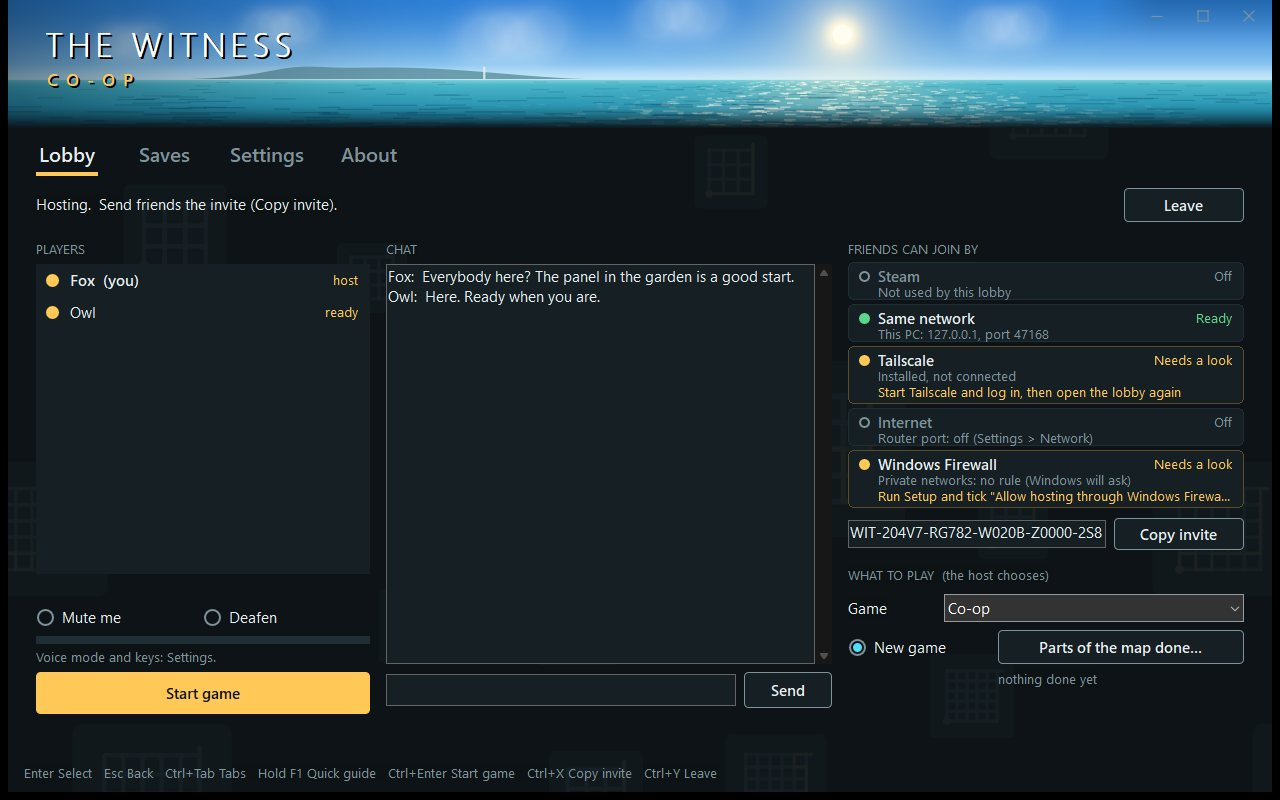
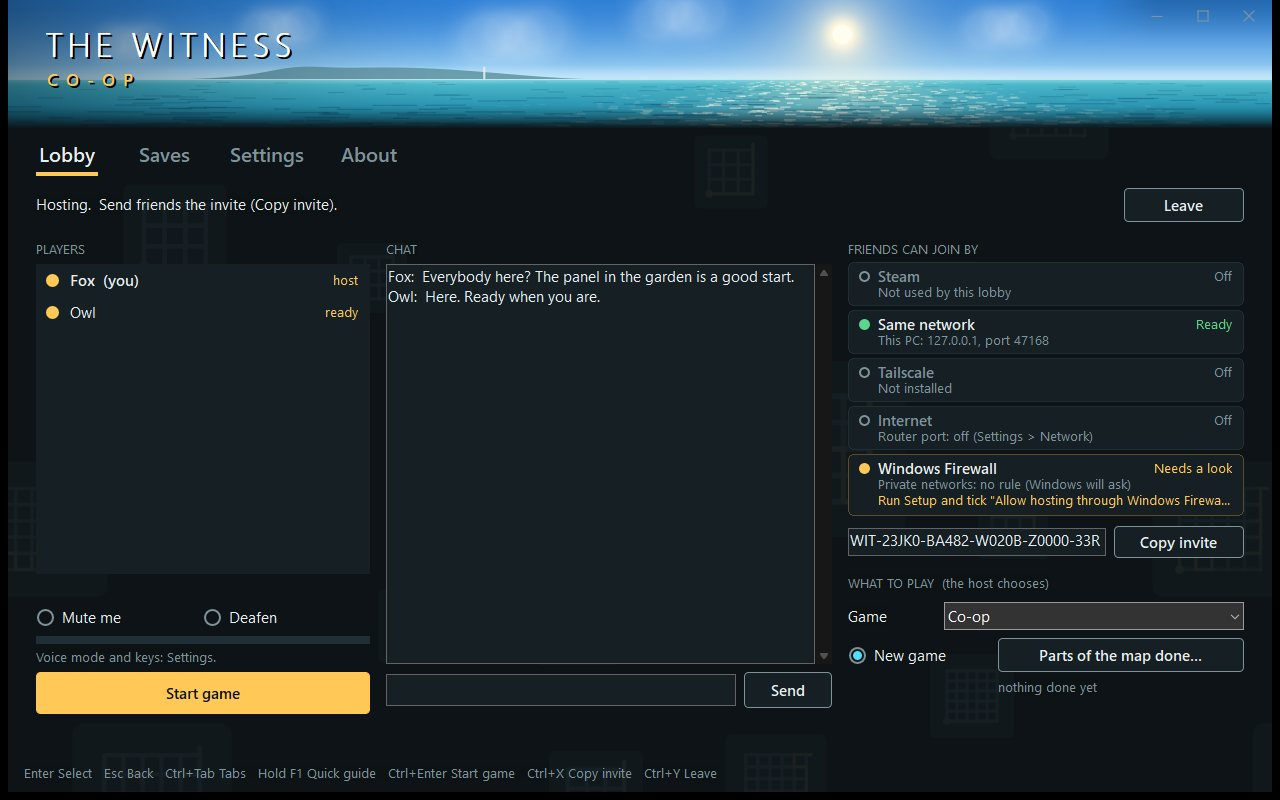
Launcher looks test sees only shown controls; a cut-off hint shortened; showcase pictures without Tailscale
wlook.py measured every child window, also the ones a page hides and never lays out
(the race goal outside a race, the Steam hint), so it reported them as covered and cut
off at their 10x10 creation size; it now looks at controls with WS_VISIBLE (a page not
selected keeps its controls' flag). That showed one real cut: the Who can see my lobby
hint needed 1006 px of 958, now shorter. qa.sh looks: clean PASS, all four mutants caught.

qa.sh join pictures drew this PC's Tailscale name once Tailscale was connected: the
launchers now start without tailscale.exe on PATH or under Program Files, and the run
checks the Tailscale row shows nothing of this PC. Pictures retaken (taller route cards).

Claude-Session: https://claude.ai/code/session_01LR8ikgw44dJVTkNefQVF8E

Changed region(s): [[0.6562, 0.375, 0.9688, 0.875], [0.9375, 0.5, 0.9688, 0.5312]]

diff --git a/tools/win/wlook.py b/tools/win/wlook.py
@@ -1,6 +1,6 @@
 # T2 check of how the launcher looks and behaves under the mouse, run with Windows Python: (1) hovering along one tab must not repaint the row of tabs again and again (flicker): 70 mouse moves along one
 # tab may repaint it at most 3 times (the paints are counted by the launcher and written to its state file); (2) on every page no dropdown box may cover another control (a dropdown and a text
-# of the same page must not overlap).     usage: wlook.py <launcher exe> <game dir> <stat file>
+# of the same page must not overlap); controls a page hides (WS_VISIBLE off) are not looked at.     usage: wlook.py <launcher exe> <game dir> <stat file>
 import ctypes, ctypes.wintypes as wt, os, re, subprocess, sys, time
 exe, gdir, statf = sys.argv[1], sys.argv[2], sys.argv[3]
 u = ctypes.WinDLL('user32', use_last_error=True); u.SendMessageW.argtypes = [wt.HWND, wt.UINT, wt.WPARAM, wt.LPARAM]; u.SendMessageW.restype = ctypes.c_ssize_t
@@ -36,6 +36,8 @@ kids = []
 def collect(h, l): kids.append(h); return True
 u.EnumChildWindows(main, collect, 0)
 tab = [h for h in kids if cls(h) == 'SysTabControl32'][0]
+u.GetWindowLongW.argtypes = [wt.HWND, ctypes.c_int]
+shown = [h for h in kids if u.GetWindowLongW(h, -16) & 0x10000000]      # WS_VISIBLE of the control itself: on every page (a page not selected keeps its controls' flag), but not a control its page hides (the race goal outside a race, the Steam hint), which is never laid out
 time.sleep(0.8); p0 = paints()
 r = wt.RECT(); u.GetWindowRect(tab, ctypes.byref(r)); oldpos = wt.POINT(); u.GetCursorPos(ctypes.byref(oldpos)); covered = False
 u.SetCursorPos(r.left + 130, r.top + 17); time.sleep(0.4); pt = wt.POINT(r.left + 160, r.top + 17); covered = u.WindowFromPoint(pt) != tab
@@ -45,7 +47,7 @@ time.sleep(0.8); p1 = paints()
 check('hovering along one tab repaints the row of tabs at most 3 times (70 mouse moves)', not covered and p0 is not None and p1 is not None and p1 - p0 <= 3, 'paints %s -> %s%s' % (p0, p1, ' (another window covers the tab)' if covered else ''))
 # no dropdown covers another control of its page
 by_parent = {}
-for h in kids:
+for h in shown:
     pr = u.GetParent(h); by_parent.setdefault(pr, []).append(h)
 bad = []
 for pr, hs in by_parent.items():
@@ -60,7 +62,7 @@ check('no dropdown box covers a text on any page', not bad, bad[:3])
 # every label and hint fits its box (a text cut off at the edge, or run out of the window, is a defect): measured with the control's own font; a text that is allowed to wrap (tall boxes) is not looked at
 g = ctypes.WinDLL('gdi32'); u.GetDC.restype = wt.HDC; u.GetDC.argtypes = [wt.HWND]; u.ReleaseDC.argtypes = [wt.HWND, wt.HDC]; g.SelectObject.argtypes = [wt.HDC, ctypes.c_void_p]; g.SelectObject.restype = ctypes.c_void_p; u.DrawTextW.argtypes = [wt.HDC, wt.LPCWSTR, ctypes.c_int, ctypes.POINTER(wt.RECT), wt.UINT]
 cut = []
-for h in kids:
+for h in shown:
     if cls(h) != 'Static': continue
     t = ctypes.create_unicode_buffer(300); u.GetWindowTextW(h, t, 300)
     if not t.value: continue

diff --git a/tools/win/wjoin.py b/tools/win/wjoin.py
@@ -80,7 +80,13 @@ si = subprocess.STARTUPINFO(); si.dwFlags |= subprocess.STARTF_USESHOWWINDOW; si
 procs = []
 try:
     for exe, d, rect in ((exeA, dirA, rectA), (exeB, dirB, rectB)):
-        p = subprocess.Popen([exe, '--dir', d, '--no-activate', '--stat-file', sp(d), '--cmd-file', cp(d)], startupinfo=si); procs.append(p)
+        env = None
+        if pics:      # pictures for the public showcase: Tailscale not found (no tailscale.exe on PATH or under Program Files), so no address or name of this PC is drawn
+            env = dict(os.environ); empty = os.path.join(d, 'no-programs'); os.makedirs(empty, exist_ok=True)
+            env['PATH'] = ';'.join(x for x in env.get('PATH', '').split(';') if x and not os.path.exists(os.path.join(x.strip('"'), 'tailscale.exe')))
+            for k in [k for k in env if k.upper() in ('PROGRAMW6432', 'PROGRAMFILES')]: del env[k]
+            env['PROGRAMW6432'] = env['PROGRAMFILES'] = empty      # (Windows Python keeps the names in upper case)
+        p = subprocess.Popen([exe, '--dir', d, '--no-activate', '--stat-file', sp(d), '--cmd-file', cp(d)], startupinfo=si, env=env); procs.append(p)
         print('LAUNCHERPID %d' % p.pid, flush=True)
     for p, rect in zip(procs, (rectA, rectB)):
         time.sleep(1.0); x, y, w, h = rect.split(); w, h = ('1280', '800') if pics else (w, h); subprocess.run([sys.executable, os.path.join(here, 'wplace.py'), str(p.pid), x, y, w, h], capture_output=True, timeout=30)
@@ -94,6 +100,7 @@ try:
     time.sleep(0.6); a = stat(dirA) or a
     fj = a and a.get('fjrows')
     check('   on screen: all five rows shown at their height, never one with a way in left without room (the first host showed a sliver of Steam, 2026-11-08)', fj and fj[0] == 0 and len(fj[1]) == 5 and all(h >= 40 for h in fj[1]), fj)
+    if pics: check('   pictures: the Tailscale row shows no address or name of this PC', a and 'This PC' not in a['hostrow'].get(2, (0, ''))[1], a and a['hostrow'].get(2))
     check('   the invite is a WIT- code', a and a['invite_code'].startswith('WIT-'), a and a['invite_code'])
     t0 = time.time(); cmd(dirB, 'tab 0', 'choice join')
     b = wait(dirB, lambda s: listed(s), 6.5); dt = time.time() - t0

diff --git a/launcher/shell.cpp b/launcher/shell.cpp
@@ -36,7 +36,7 @@ static std::vector<Row> Build() {
     const std::vector<std::string> q = {"Low", "Medium", "High"};
     // Co-op rules (host): who can see the lobby and the player limit come with the Join list; what to play is chosen in the lobby
     { Row r = Choice_("cfg:lobby_visibility", "Who can see my lobby", kRules, {"Open to my networks", "Invite only"}, "open"); r.values = {"open", "invite"}; r.hostDecides = true;
-      r.hint = "open: listed in friends' Join lists on your network and Tailscale, joinable without a code; invite only: friends need the invite. Steam lobbies stay friends-only"; v.push_back(r); }
+      r.hint = "open: friends on your network or Tailscale see it in Join and need no code; invite only: friends need the invite. Steam lobbies stay friends-only"; v.push_back(r); }
     { Row n = R("note:rules", "Up to 16 players. What to play (co-op or race, new game, parts done) is chosen in the lobby by the host.", kRules, kNote); v.push_back(n); }
     // Players and interface
     { Row r = R("cfg:name", "Your name", kPlayers, kText); r.hint = "shown to the others"; v.push_back(r); }

diff --git a/docs/DEVELOPMENT.md b/docs/DEVELOPMENT.md
@@ -281,7 +281,8 @@ fuzzed, with 101 source mutants that must fail, the router code against a fake U
 the probe answer, the invite, invite-only lobbies; mutants), `python3 tools/test_coop_witness.py` (the wiring), and `tools/qa.sh join` (two real launchers, no
 game: B lists A from the LAN within 6 s and joins from the row, then from a pasted code; A shows *Same network* OK and all five *Friends can join by* rows laid out at their height from the moment the lobby opens; an invite-only lobby is not listed (a listed lobby whose address turns invite only leaves the list at its next answer, `wc_forget_invite_only` in
 `common/coop_witness.h`, joinglue-test mutant `KEEP_INVITE_ONLY_ROW`; otherwise a lobby that stops answering fades after 12 s) and its code
-still joins; a launcher that ignores the answers must fail it, and so must one that does not lay the rows out again when they appear, `FJ_NO_RELAYOUT`). `tools/qa.sh join pictures` retakes the two launcher pictures with 127.0.0.1 as the address.
+still joins; a launcher that ignores the answers must fail it, and so must one that does not lay the rows out again when they appear, `FJ_NO_RELAYOUT`). `tools/qa.sh join pictures` retakes the two launcher pictures with 127.0.0.1 as the address and Tailscale hidden from the launchers (no `tailscale.exe` on their PATH
+or under Program Files; the run fails if the Tailscale row still shows this PC).
 
 ### Play over the internet (Steam, no port forwarding)
 
